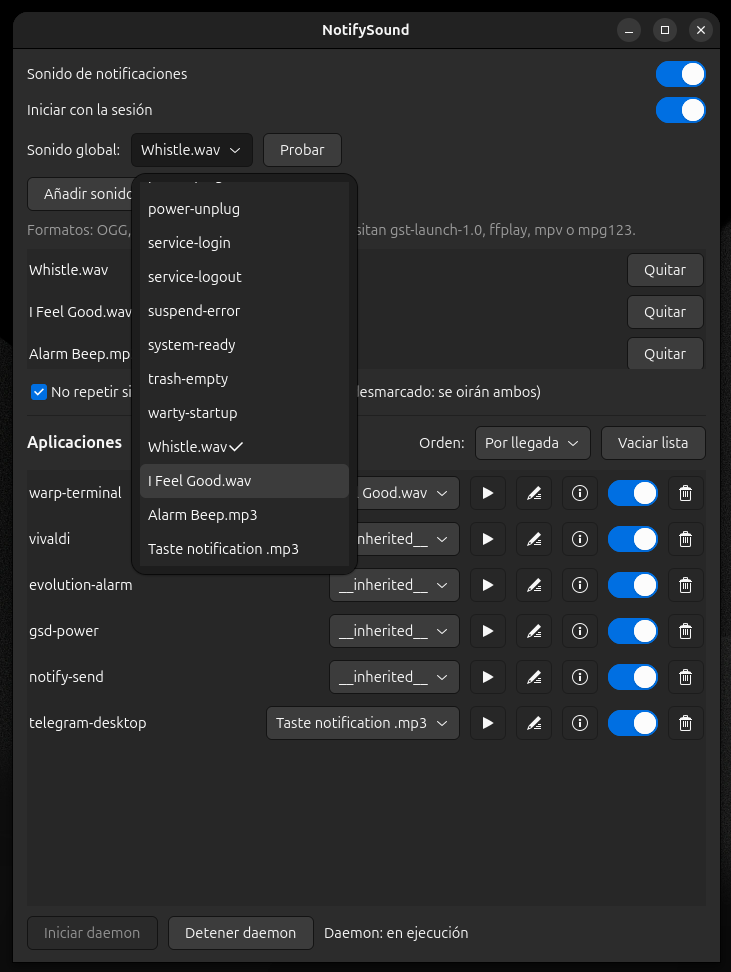
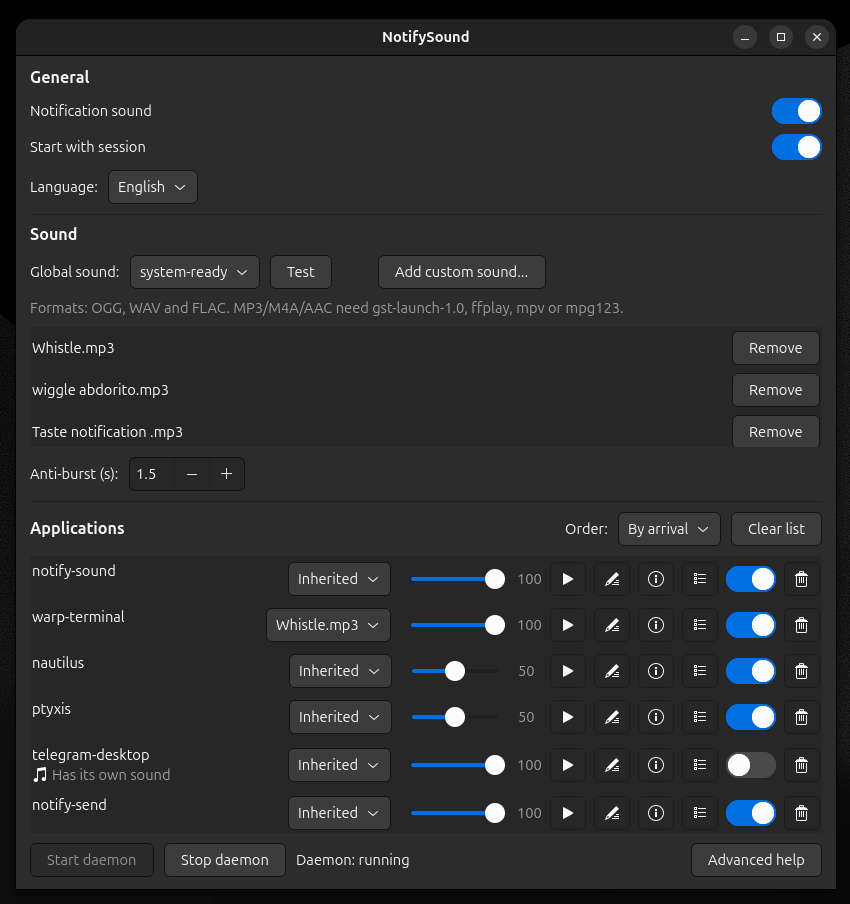
docs(landing): capturas de la GUI final de Fase 1
Reemplazo de gui-1.png (ventana general en ingles con sonidos propios
y apps con configuraciones variadas) y gui-2.png (dialogo de reglas
por contenido de warp-terminal con 3 reglas reales). Alts actualizados
EN/ES al contenido real. Demo diferida a VIS-006 por decision del
operador (no bloqueante) (FASE1-CLOSE).

diff --git a/site/es/index.html b/site/es/index.html
@@ -86,10 +86,10 @@
     <h2><span>03</span><span>Capturas</span></h2>
     <div class="screenshots">
       <figure class="screenshot">
-        <img src="../screenshots/gui-1.png" alt="Ventana de ajustes de NotifySound" loading="lazy" onclick="openLightbox(this.src)">
+        <img src="../screenshots/gui-1.png" alt="Ventana principal de NotifySound: sonidos, volúmenes y switches por app" loading="lazy" onclick="openLightbox(this.src)">
       </figure>
       <figure class="screenshot">
-        <img src="../screenshots/gui-2.png" alt="Gestión de aplicaciones de NotifySound" loading="lazy" onclick="openLightbox(this.src)">
+        <img src="../screenshots/gui-2.png" alt="Reglas de sonido por contenido de una app en NotifySound (ejemplo real con tres reglas)" loading="lazy" onclick="openLightbox(this.src)">
       </figure>
     </div>
   </div>

diff --git a/site/index.html b/site/index.html
@@ -86,10 +86,10 @@
     <h2><span>03</span><span>Screenshots</span></h2>
     <div class="screenshots">
       <figure class="screenshot">
-        <img src="screenshots/gui-1.png" alt="NotifySound settings window" loading="lazy" onclick="openLightbox(this.src)">
+        <img src="screenshots/gui-1.png" alt="NotifySound main window: per-app sounds, volumes and switches" loading="lazy" onclick="openLightbox(this.src)">
       </figure>
       <figure class="screenshot">
-        <img src="screenshots/gui-2.png" alt="NotifySound app management" loading="lazy" onclick="openLightbox(this.src)">
+        <img src="screenshots/gui-2.png" alt="Per-app content rules in NotifySound (real example with three rules)" loading="lazy" onclick="openLightbox(this.src)">
       </figure>
     </div>
   </div>
